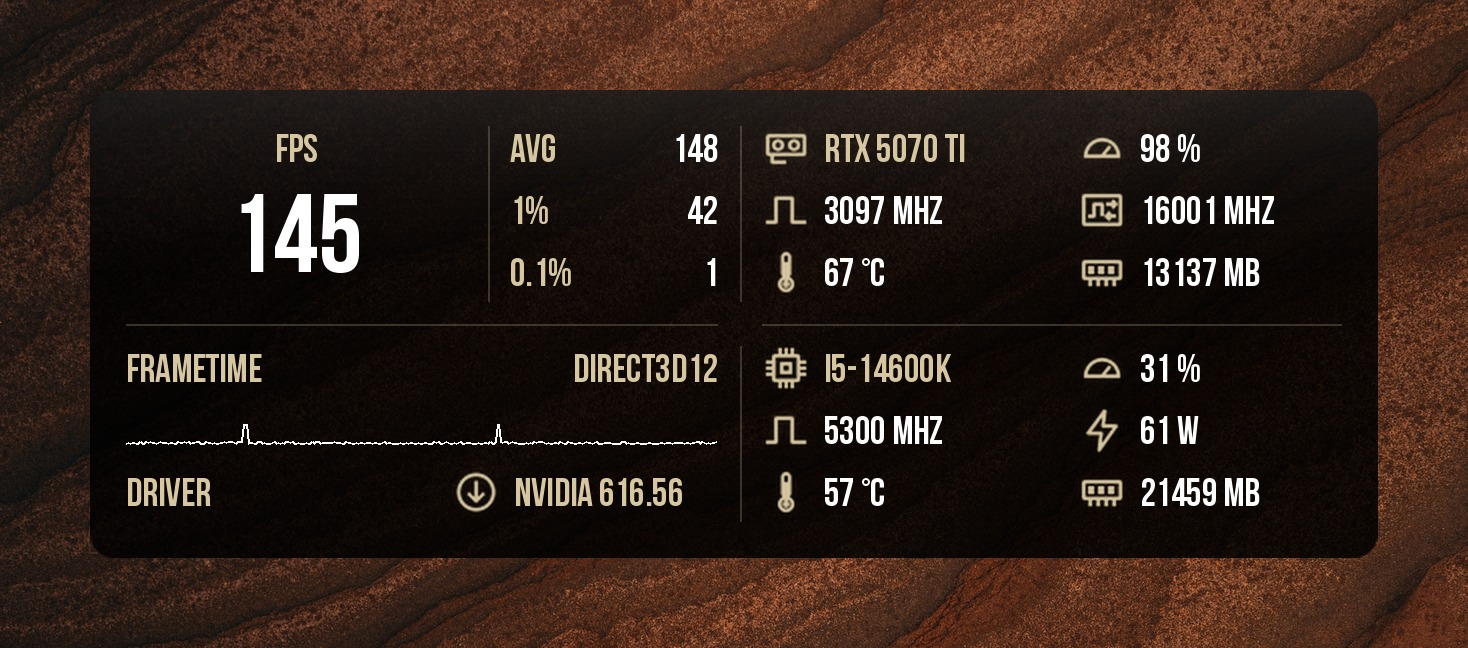
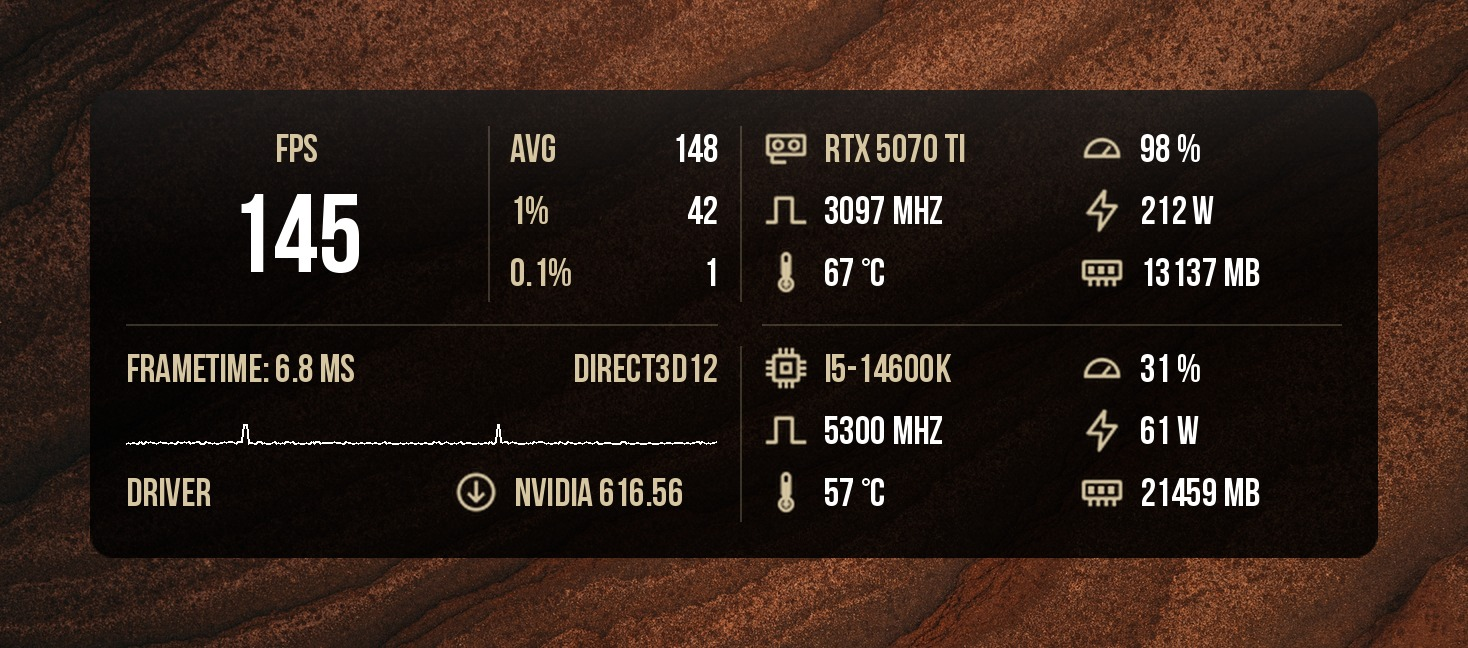
Added frametime value and swapped gpu memory clocks with gpu power draw

Changed region(s): [[0.7357, 0.2778, 0.889, 0.3704], [0.1839, 0.5247, 0.2452, 0.5864]]

diff --git a/README.ru.md b/README.ru.md
@@ -39,9 +39,9 @@
 ## Что показывает
 
 - **FPS:** текущий, средний, 1% low, 0.1% low
-- **GPU:** название, загрузка, частота ядра, частота памяти, температура, занятая видеопамять
+- **GPU:** название, загрузка, частота ядра, потребляемая мощность, температура, занятая видеопамять
 - **CPU:** название, загрузка, частота, мощность, температура, занятая ОЗУ
-- **График frametime** (0–40 мс) и используемый графический API
+- **График frametime** (0–40 мс) с текущим значением и используемый графический API
 - **Версия драйвера**, подставляется автоматически
 
 Все данные берутся из встроенного мониторинга RTSS (HAL). MSI Afterburner и HWiNFO не нужны.

diff --git a/README.md b/README.md
@@ -39,9 +39,9 @@ A clean, frosted-glass performance overlay for **RivaTuner Statistics Server (RT
 ## What it shows
 
 - **FPS:** current, average, 1% low, 0.1% low
-- **GPU:** name, load, core clock, memory clock, temperature, VRAM usage
+- **GPU:** name, load, core clock, power draw, temperature, VRAM usage
 - **CPU:** name, load, clock, package power, temperature, RAM usage
-- **Frametime graph** (0–40 ms) and the graphics API in use
+- **Frametime graph** (0–40 ms) with the current value, and the graphics API in use
 - **Driver version**, filled in automatically
 
 All values come from RTSS's built-in hardware monitoring (HAL). MSI Afterburner and HWiNFO are not required.

diff --git a/CHANGELOG.md b/CHANGELOG.md
@@ -1,5 +1,11 @@
 # Changelog
 
+## [1.0.1] - 2026-09-26
+
+- GPU field changed from memory clock to GPU power draw (bolt icon, watts), matching the CPU power field
+- Frametime label now also shows the current frametime value in ms, next to the graph and API
+- Single Line layout widened slightly to fit the new frametime value without crowding the graph
+
 ## [1.0.0] - 2026-09-26
 
 First release.
